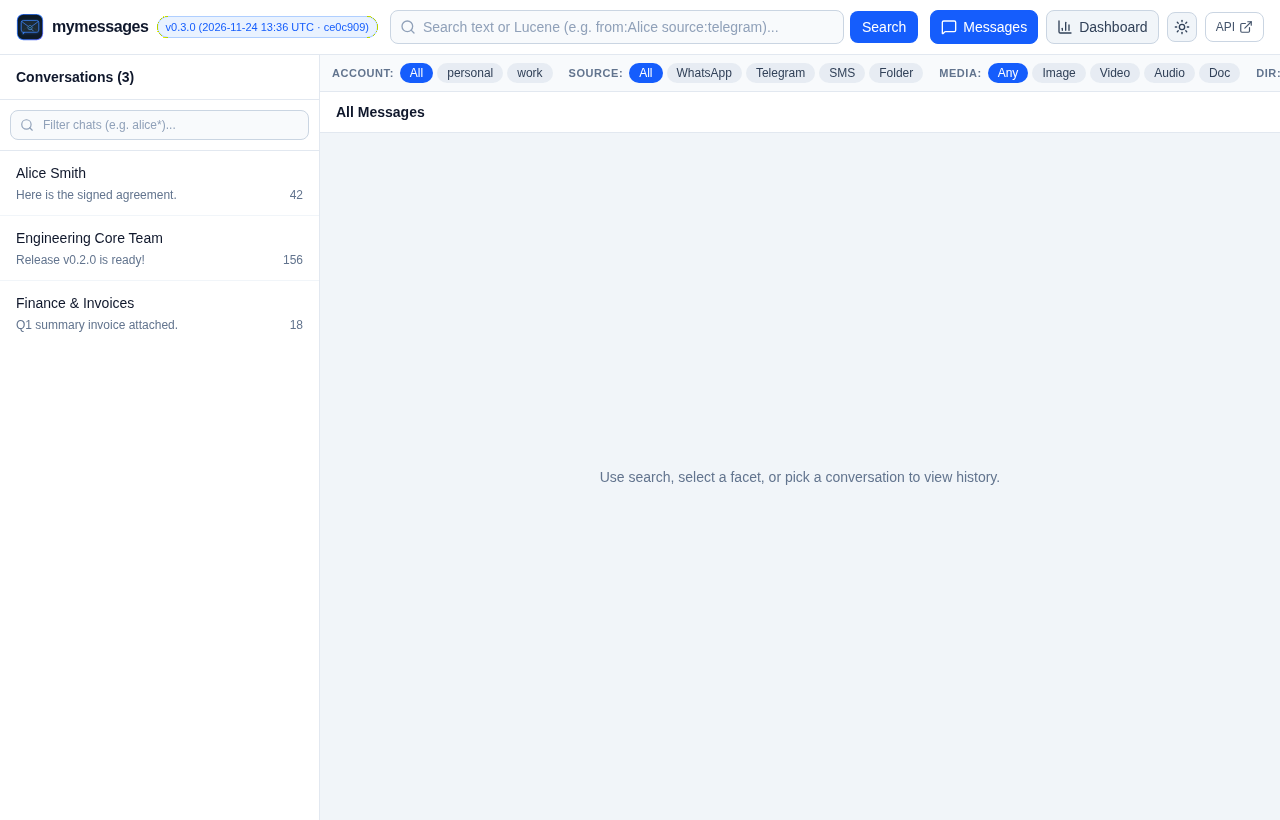
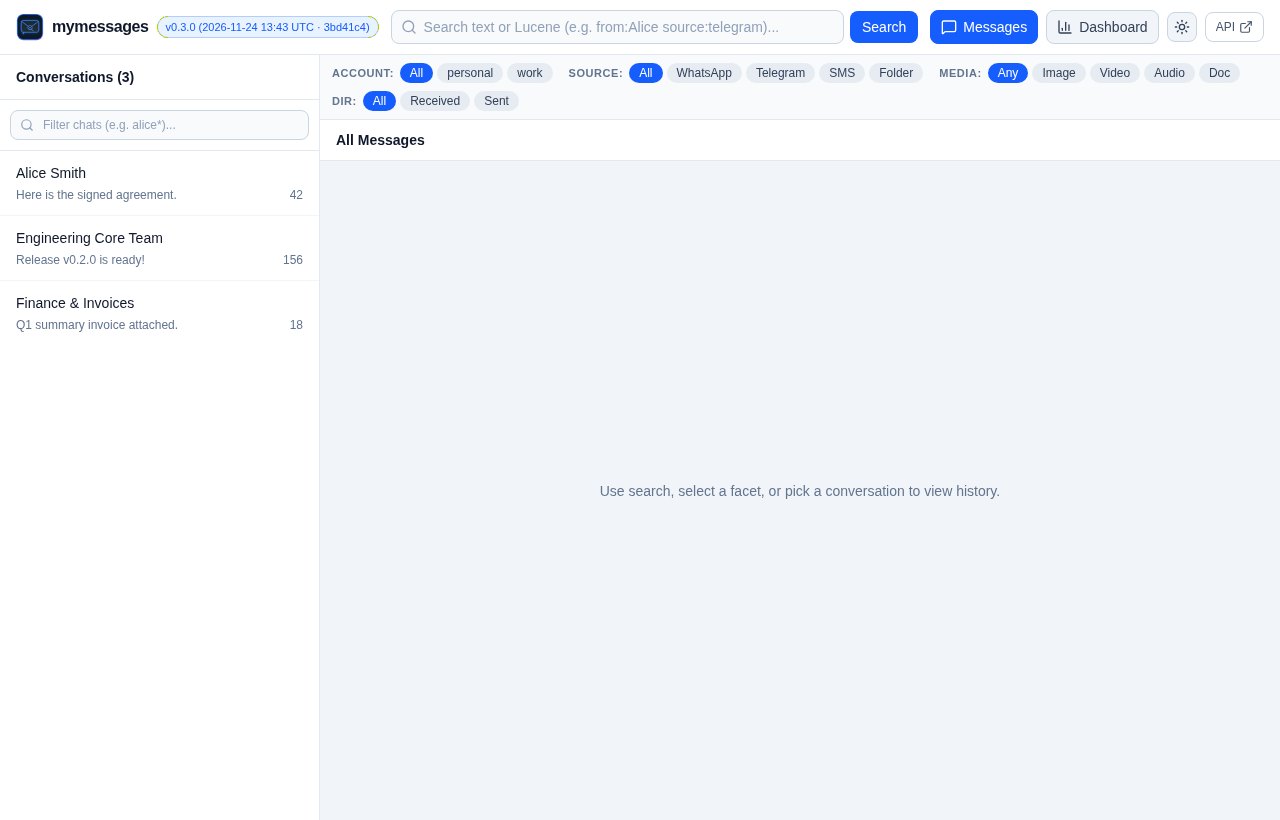
fix(web): wrap multiline facet bar, hydrate URL search params, and regenerate screenshots & demo GIF

diff --git a/web/src/router.tsx b/web/src/router.tsx
@@ -40,14 +40,30 @@ export const queryClient = new QueryClient({
   },
 });
 
+function readInitialFilters(): SearchFilters {
+  if (typeof window === 'undefined') return { query: '' };
+  const params = new URLSearchParams(window.location.search);
+  const mediaType = params.get('media_type') || undefined;
+  const hasMediaParam = params.get('has_media');
+  const isFromMeParam = params.get('is_from_me');
+  return {
+    query: params.get('q') || params.get('query') || '',
+    source: params.get('source') || undefined,
+    account: params.get('account') || undefined,
+    media_type: mediaType,
+    has_media: hasMediaParam !== null ? hasMediaParam === 'true' : mediaType ? true : undefined,
+    is_from_me: isFromMeParam !== null ? isFromMeParam === 'true' : undefined,
+  };
+}
+
 function RootLayout() {
   const navigate = useNavigate();
   const [theme, setTheme] = useState<'dark' | 'light'>(() => initTheme());
   const [mobileSidebarOpen, setMobileSidebarOpen] = useState(false);
-  const [searchInput, setSearchInput] = useState('');
+  const [filters, setFilters] = useState<SearchFilters>(() => readInitialFilters());
+  const [searchInput, setSearchInput] = useState(() => readInitialFilters().query);
   const [chatFilterInput, setChatFilterInput] = useState('');
   const [debouncedChatFilter, setDebouncedChatFilter] = useState('');
-  const [filters, setFilters] = useState<SearchFilters>({ query: '' });
 
   useEffect(() => {
     const timer = setTimeout(() => setDebouncedChatFilter(chatFilterInput.trim()), 250);
@@ -66,12 +82,13 @@ function RootLayout() {
     staleTime: 60_000,
   });
 
+  const effectiveChatQuery = debouncedChatFilter || filters.query.trim() || undefined;
   const chatsQuery = useQuery({
-    queryKey: ['chats', filters.source, filters.account, debouncedChatFilter, filters.has_media, filters.media_type, filters.is_from_me],
+    queryKey: ['chats', filters.source, filters.account, effectiveChatQuery, filters.has_media, filters.media_type, filters.is_from_me],
     queryFn: ({ signal }) =>
       fetchChats(
         filters.source,
-        debouncedChatFilter || undefined,
+        effectiveChatQuery,
         filters.account,
         {
           has_media: filters.has_media,

diff --git a/web/src/components/FacetBar.tsx b/web/src/components/FacetBar.tsx
@@ -23,11 +23,15 @@ function FacetRow({
   onSelect: (val: string | undefined) => void;
 }) {
   return (
-    <div className="flex items-center gap-1.5 shrink-0" data-testid="facet-group">
+    <div
+      className="flex flex-wrap items-center gap-1.5"
+      data-testid="facet-group"
+      data-facet-group={label.toLowerCase()}
+    >
       <span className="text-[11px] font-semibold uppercase tracking-wider text-slate-500 dark:text-slate-400">
         {label}:
       </span>
-      <div className="flex items-center gap-1">
+      <div className="flex flex-wrap items-center gap-1">
         {options.map((opt) => {
           const active = opt.value === current;
           return (
@@ -35,6 +39,7 @@ function FacetRow({
               key={opt.label}
               type="button"
               data-testid="facet-pill"
+              data-facet-value={opt.value || 'all'}
               onClick={() => onSelect(opt.value)}
               className={`rounded-full px-2.5 py-0.5 text-xs font-medium transition-colors whitespace-nowrap ${
                 active
@@ -82,7 +87,7 @@ export function FacetBar({ filters, accounts, onChange }: FacetBarProps) {
   return (
     <div
       data-testid="search-facets-bar"
-      className="shrink-0 flex items-center gap-4 overflow-x-auto custom-scroll border-b border-slate-200 dark:border-slate-800 bg-slate-50 dark:bg-slate-900/60 px-3 py-2"
+      className="shrink-0 flex flex-wrap items-center gap-x-4 gap-y-2 border-b border-slate-200 dark:border-slate-800 bg-slate-50 dark:bg-slate-900/60 px-3 py-2"
     >
       {accounts.length > 0 && (
         <FacetRow
